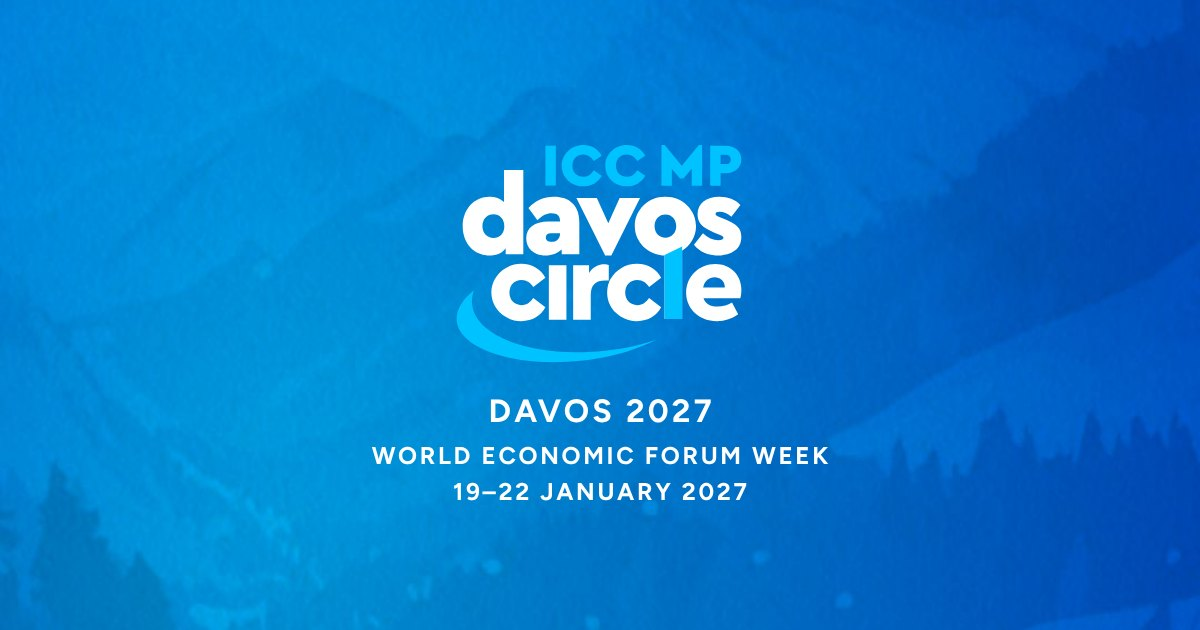
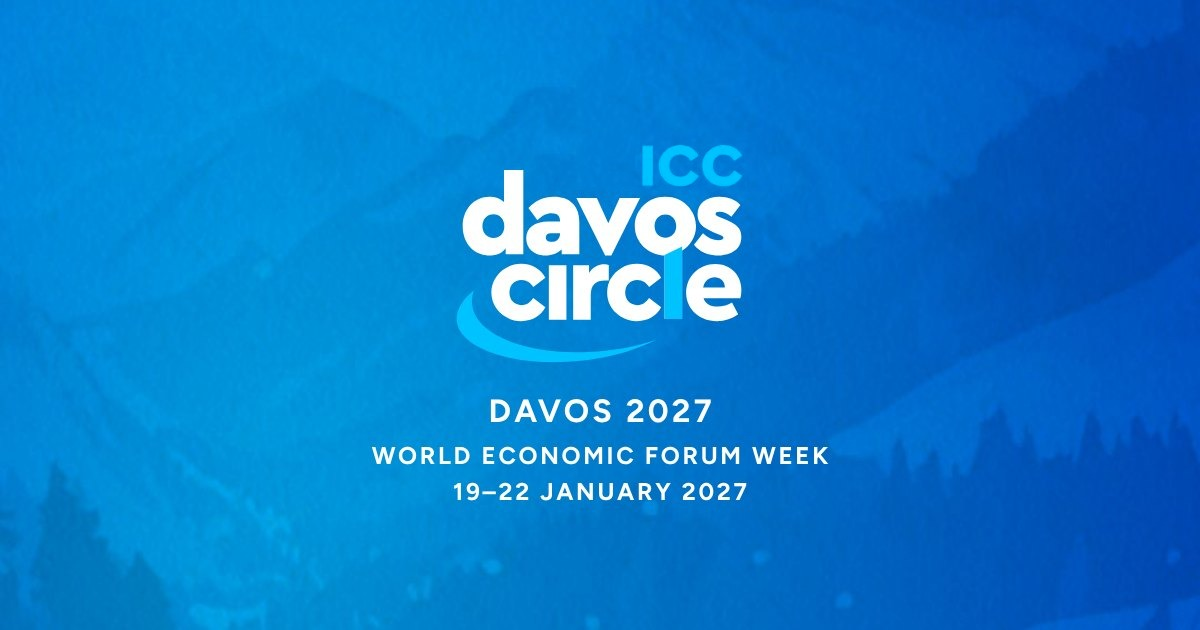
Rebrand from ICC MP to ICC across assets, copy, and metadata

Changed region(s): [[0.4317, 0.2111, 0.6167, 0.3016]]

diff --git a/index.html b/index.html
@@ -3,20 +3,20 @@
 <head>
   <meta charset="utf-8">
   <meta name="viewport" content="width=device-width, initial-scale=1, viewport-fit=cover">
-  <title>ICC MP Davos Circle 2027 | Register your interest</title>
-  <meta name="description" content="Exclusive invite for ICC MP members only. ICC Madhya Pradesh invites members to register their interest in a three-day Davos programme during World Economic Forum week, 19–22 January 2027.">
+  <title>ICC Davos Circle 2027 | Register your interest</title>
+  <meta name="description" content="Exclusive invite for ICC members only. The Indian Chamber of Commerce invites members to register their interest in a three-day Davos programme during World Economic Forum week, 19–22 January 2027.">
   <meta name="robots" content="noindex, nofollow">
   <meta name="theme-color" content="#0051BE">
 
   <meta property="og:type" content="website">
-  <meta property="og:site_name" content="ICC Madhya Pradesh">
-  <meta property="og:title" content="ICC MP Davos Circle 2027">
-  <meta property="og:description" content="Exclusive invite for ICC MP members only. Seats are limited. Kindly register your interest by 15 November 2026.">
+  <meta property="og:site_name" content="Indian Chamber of Commerce">
+  <meta property="og:title" content="ICC Davos Circle 2027">
+  <meta property="og:description" content="Exclusive invite for ICC members only. Seats are limited. Kindly register your interest by 15 November 2026.">
   <meta property="og:url" content="https://icc-mp-register-interest-davos.vercel.app/">
-  <meta property="og:image" content="https://icc-mp-register-interest-davos.vercel.app/assets/og-davos-2027.jpg">
+  <meta property="og:image" content="https://icc-mp-register-interest-davos.vercel.app/assets/og-davos-2027.jpg?v=2">
   <meta property="og:image:width" content="1200">
   <meta property="og:image:height" content="630">
-  <meta property="og:image:alt" content="ICC MP Davos Circle, Davos 2027, World Economic Forum week, 19–22 January 2027">
+  <meta property="og:image:alt" content="ICC Davos Circle, Davos 2027, World Economic Forum week, 19–22 January 2027">
   <meta name="twitter:card" content="summary_large_image">
 
   <link rel="icon" href="assets/favicon.svg" type="image/svg+xml">
@@ -34,7 +34,7 @@
       <div class="cover__inner">
         <div class="cover__mast">
           <h1 class="cover__logo">
-            <img src="assets/logo-davos-circle.svg" alt="ICC MP Davos Circle" width="153" height="124">
+            <img src="assets/logo-davos-circle.svg?v=2" alt="ICC Davos Circle" width="153" height="124">
           </h1>
           <p class="cover__event">
             <span class="ev ev--name">Davos 2027</span>
@@ -50,7 +50,7 @@
             <span class="hl hl--2">World’s table</span>
           </h2>
           <p class="cover__note" data-deadline-text>
-            <span class="cover__note-invite"><em>*Exclusive invite for ICC MP members only</em></span>
+            <span class="cover__note-invite"><em>*Exclusive invite for ICC members only</em></span>
             <span class="cover__note-deadline">Kindly register your interest by 15&nbsp;November&nbsp;2026.</span>
           </p>
         </div>
@@ -65,12 +65,12 @@
           <img class="incl__line" src="assets/inclusions-line.svg" alt="">
           <h2 class="incl__title" id="incl-title"><span>Exclusive</span> <span>inclusions</span></h2>
           <ul class="incl__list">
-            <li class="incl__item incl__item--l" style="--cy: 72.64"><span>ICC MP dedicated</span> <span>Dialogue on the</span> <span>sidelines of the</span> <span>World Economic</span> <span>Forum Congress</span></li>
+            <li class="incl__item incl__item--l" style="--cy: 72.64"><span>ICC dedicated</span> <span>Dialogue on the</span> <span>sidelines of the</span> <span>World Economic</span> <span>Forum Congress</span></li>
             <li class="incl__item incl__item--r" style="--cy: 128.88"><span>A seat at</span> <span>exclusive soirées</span> <span>&amp; lunches hosted</span> <span>by international</span> <span>countries and</span> <span>delegations</span></li>
             <li class="incl__item incl__item--l" style="--cy: 185.12"><span>Access to</span> <span>curated WEF</span> <span>convenings</span></li>
             <li class="incl__item incl__item--r" style="--cy: 241.36"><span>Guided access</span> <span>to international</span> <span>country houses</span> <span>at Davos</span></li>
             <li class="incl__item incl__item--l" style="--cy: 297.6"><span>Opportunities</span> <span>to connect with</span> <span>global investors,</span> <span>industry leaders</span> <span>&amp; policymakers</span></li>
-            <li class="incl__item incl__item--r" style="--cy: 353.84"><span>Media visibility</span> <span>as part of the</span> <span>ICC MP Davos</span> <span>delegation</span></li>
+            <li class="incl__item incl__item--r" style="--cy: 353.84"><span>Media visibility</span> <span>as part of the</span> <span>ICC Davos</span> <span>delegation</span></li>
           </ul>
         </div>
       </section>
@@ -82,7 +82,7 @@
 
           <dl class="cost">
             <div class="cost__item">
-              <dt><b>ICC MP Delegation</b> <span class="cost__note">(covers all the <br>points listed under ‘Exclusive Inclusions’)</span></dt>
+              <dt><b>ICC Delegation</b> <span class="cost__note">(covers all the <br>points listed under ‘Exclusive Inclusions’)</span></dt>
               <dd class="pill pill--blue"><span class="amt">CHF 5000 – 6000</span> <small>per person</small></dd>
             </div>
             <div class="cost__item">
@@ -97,13 +97,13 @@
           </dl>
 
           <p class="members">
-            <span class="members__invite"><em>*Exclusive invite for ICC MP members only</em></span>
+            <span class="members__invite"><em>*Exclusive invite for ICC members only</em></span>
             <span class="members__deadline">Kindly register your interest by 15<sup>th</sup> November, 2026</span>
           </p>
 
           <p class="fine">
-            <b>ICC MP Davos Circle 2027:</b> Three days – two curated, one at leisure. Dates to be confirmed.
-            <b>Accommodation:</b> Short stays may be available. ICC MP will share suggestions;
+            <b>ICC Davos Circle 2027:</b> Three days – two curated, one at leisure. Dates to be confirmed.
+            <b>Accommodation:</b> Short stays may be available. ICC will share suggestions;
             delegates can book independently. Prices are indicative.
           </p>
 
@@ -154,9 +154,9 @@
                 <div class="consent">
                   <label class="consent__box">
                     <input type="checkbox" id="f-consent" required>
-                    <span>I am an ICC MP member and understand this is an expression of interest. Costs shown are tentative.</span>
+                    <span>I am an ICC member and understand this is an expression of interest. Costs shown are tentative.</span>
                   </label>
-                  <p class="field__error" id="f-consent-err" hidden>Tick the box to confirm you are an ICC MP member.</p>
+                  <p class="field__error" id="f-consent-err" hidden>Tick the box to confirm you are an ICC member.</p>
                 </div>
 
                 <div class="form__status" role="alert" aria-live="assertive" hidden></div>
@@ -171,7 +171,7 @@
             <div class="register__done" data-panel="done" hidden>
               <svg class="register__tick" viewBox="0 0 48 48" aria-hidden="true"><circle cx="24" cy="24" r="22.5" fill="none" stroke="currentColor" stroke-width="1.5"/><path d="M15 24.5l6 6 12-13" fill="none" stroke="currentColor" stroke-width="2.25" stroke-linecap="round" stroke-linejoin="round"/></svg>
               <p class="register__done-title" tabindex="-1">Your interest is registered<span data-first-name></span>.</p>
-              <p>The ICC MP team will contact you via email or phone with programme details and accommodation suggestions.</p>
+              <p>The ICC team will contact you via email or phone with programme details and accommodation suggestions.</p>
             </div>
 
             <!-- closed -->
@@ -186,9 +186,9 @@
           <img class="icc-logo" src="assets/icc-100-logo.png" alt="Indian Chamber of Commerce — A Century of Service to the Nation" width="220" height="124">
           <div class="rsvp">
             <p class="rsvp__name"><span>RSVP:</span> <b>Shanu Mehta</b></p>
-            <p>Chair – International Relations, ICC MP</p>
+            <p>Chair – International Relations, ICC</p>
             <p class="rsvp__links">
-              <a href="mailto:shanu@mmcconvert.com?subject=ICC%20MP%20Davos%20Circle%202027">shanu@mmcconvert.com</a>
+              <a href="mailto:shanu@mmcconvert.com?subject=ICC%20Davos%20Circle%202027">shanu@mmcconvert.com</a>
               <span aria-hidden="true">|</span>
               <a href="tel:+919826043012">+91 98260 43012</a>
             </p>

diff --git a/styles.css b/styles.css
@@ -1,5 +1,5 @@
-/* ICC MP Davos Circle 2027 — register interest
-   Built from ICC_MP_Global_Circle_Invitation.pdf (Shabd Creatives, three pages).
+/* ICC Davos Circle 2027 — register interest
+   Built from the original invitation PDF (Shabd Creatives, three pages).
    Every size is written in the creative's own points and multiplied by a unit:
      --u  cover        --c  inclusions composition        --v  investment page
    so the page keeps the print proportions at any width.

diff --git a/app.js b/app.js
@@ -1,4 +1,4 @@
-/* ICC MP Davos Circle 2027 · register-interest form
+/* ICC Davos Circle 2027 · register-interest form
    Submissions are appended as rows to the Google Sheet behind SheetDB. */
 
 const CONFIG = {

diff --git a/README.md b/README.md
@@ -1,4 +1,4 @@
-# ICC MP Davos Circle 2027 · Register interest
+# ICC Davos Circle 2027 · Register interest
 
 Static site (no build step). Target URL: https://icc-mp-register-interest-davos.vercel.app/
 
@@ -27,13 +27,13 @@ To send rows to a separate tab, set `SHEET_TAB` in `app.js` to that tab's name.
 |---|---|
 | `SHEETDB_URL` | `https://sheetdb.io/api/v1/5jbygah71womk` |
 | `SHEET_TAB` | Empty means the first tab |
-| `DEADLINE` | 5 Nov 2026, 23:59 IST. After this the form is replaced by a "closed" notice |
+| `DEADLINE` | 15 Nov 2026, 23:59 IST. After this the form is replaced by a "closed" notice |
 
 To preview the closed state, add `?state=closed` to the URL.
 
 ## Design source
 
-Everything comes from `ICC_MP_Global_Circle_Invitation.pdf` (three pages, Shabd Creatives).
+Everything comes from the original invitation PDF (three pages, Shabd Creatives).
 
 - **Page 1, cover:**
   - Logo `assets/logo-davos-circle.svg` and seat icon `assets/icon-seat.svg` are vector artwork rebuilt from the PDF.
